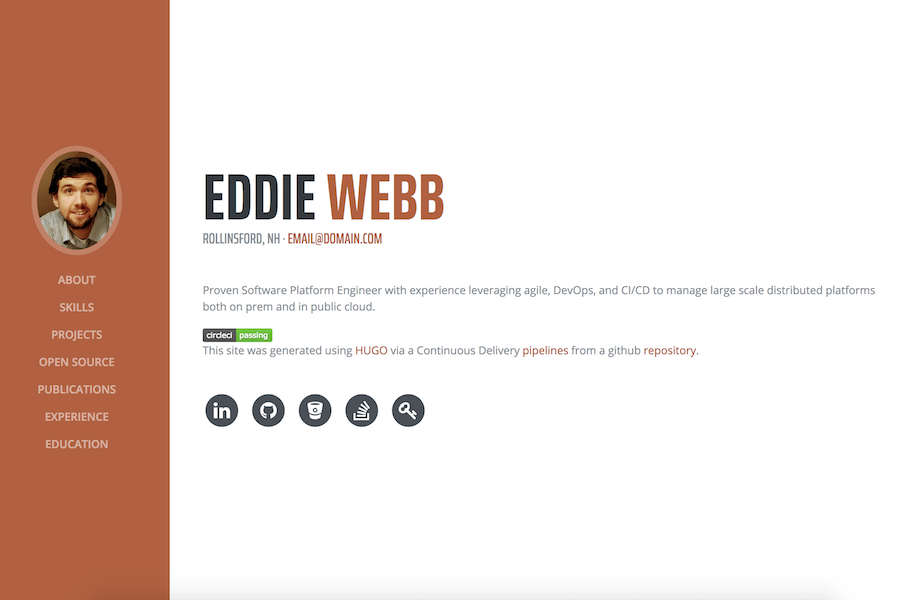
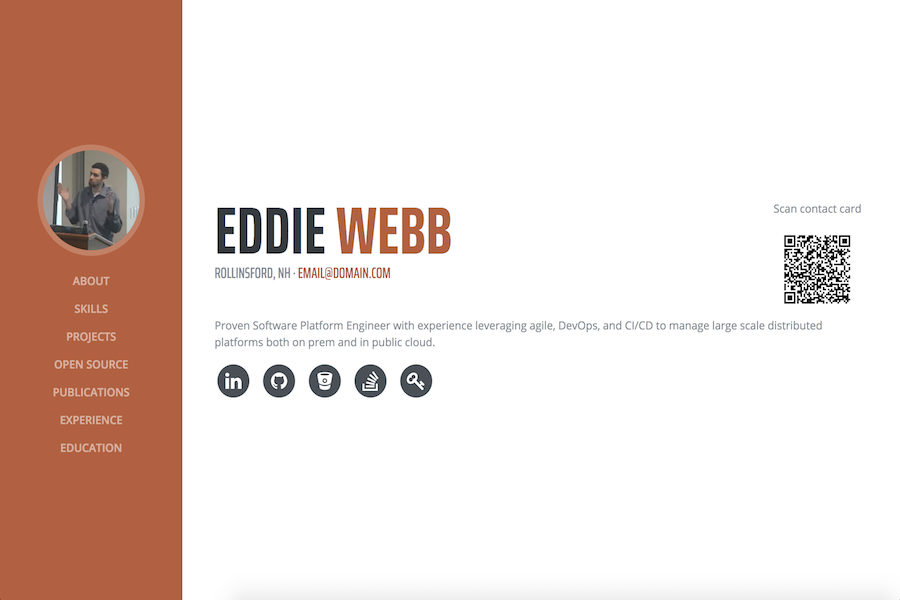
updated screenshot with QR

diff --git a/layouts/partials/contact-qr.html b/layouts/partials/contact-qr.html
@@ -1,3 +1,4 @@
-<div class="card" style="max-width: 155px;max-height: 155px;">
-  <img id="qr-code" alt="Scannable QR code with contact info" src="https://chart.googleapis.com/chart?cht=qr&chs=150x150&chl=MECARD:N:{{ .Param "lastName" }},{{ .Param "firstName" }};{{ .Param "address" }};TEL:{{ .Param "phone" }};EMAIL:{{ .Param "email" }};URL:{{ .Site.BaseURL }};NOTE:{{ .Param "contactNote" }};;"/>
+<div class="p0 m0 text-center" >
+  <p class="card-text">Scan contact card</p>
+  <img id="qr-code" class="card-img-top" alt="Scannable QR code with contact info" src="https://chart.googleapis.com/chart?cht=qr&chs=150x150&chl=MECARD:N:{{ .Param "lastName" }},{{ .Param "firstName" }};{{ .Param "address" }};TEL:{{ .Param "phone" }};EMAIL:{{ .Param "email" }};URL:{{ .Site.BaseURL }};NOTE:{{ .Param "contactNote" }};;"/>
 </div>
